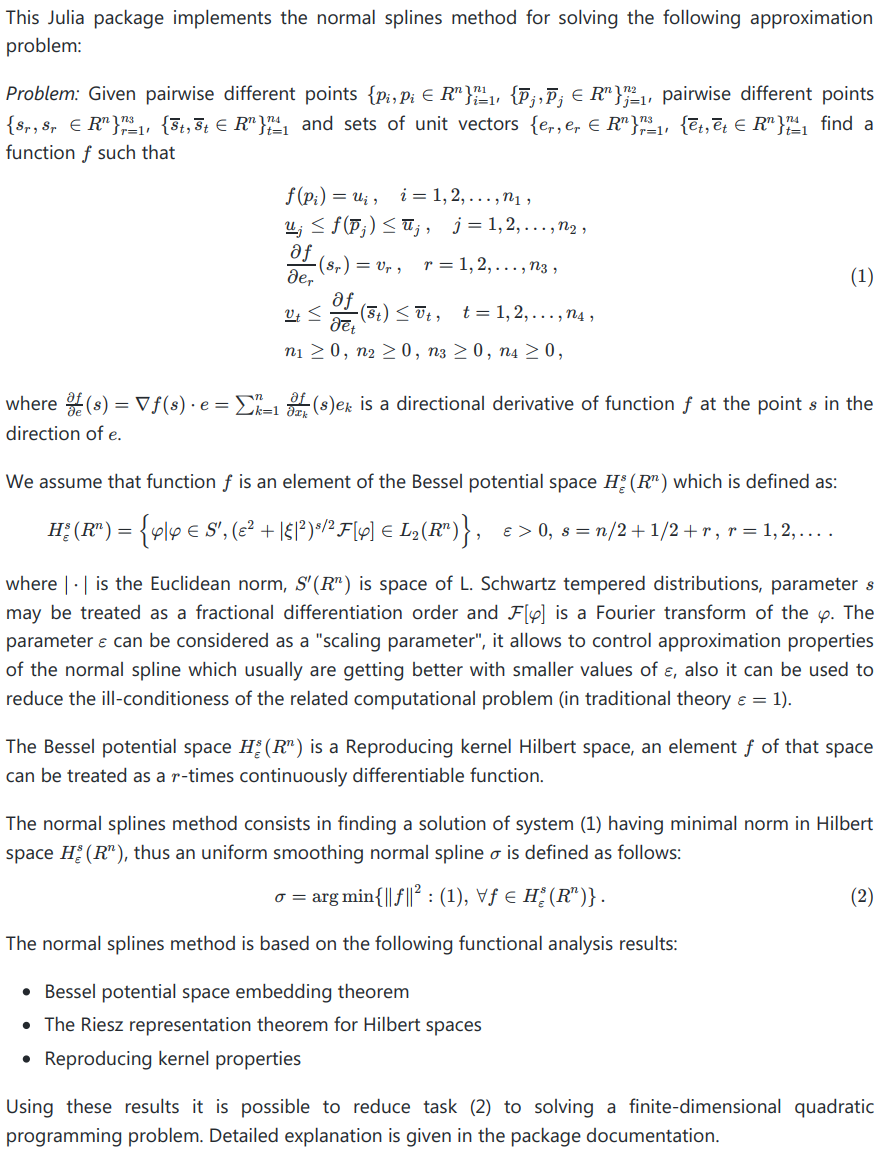
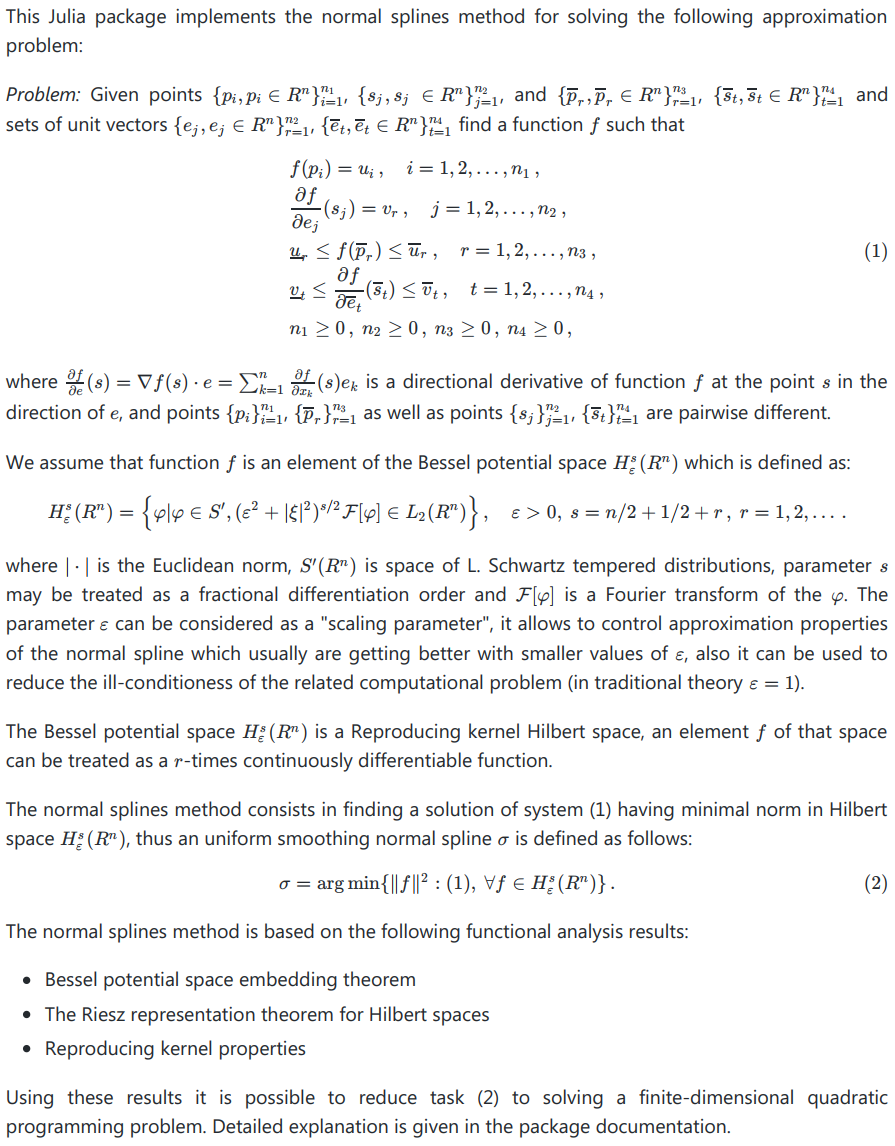
.

Changed region(s): [[0.0, 0.0, 1.0, 1.0], [0.949, 0.7635, 1.0, 0.7941], [0.949, 0.2138, 1.0, 0.2443]]

diff --git a/docs/src/Normal-Splines-Method.md b/docs/src/Normal-Splines-Method.md
@@ -670,22 +670,23 @@ $~$
 
 Consider the following approximation problem:
 
-*Problem:* Given pairwise different points ``\{p_i, p_i \in R^n\}_{i=1}^{n_1}``, ``\{\overline p_j, \overline p_j \in R^n\}_{j=1}^{n_2}``, pairwise different points ``\{s_r, s_r~\in R^n\}_{r=1}^{n_3}``, ``\{\overline s_t, \overline s_t \in R^n\}_{t=1}^{n_4}`` and sets of unit vectors ``\{e_r, e_r \in R^n\}_{r=1}^{n_3}``, ``\{\overline e_t, \overline e_t \in R^n\}_{t=1}^{n_4}`` find a function ``f`` such that
+*Problem:* Given points ``\{p_i, p_i \in R^n\}_{i=1}^{n_1}``, ``\{s_j, s_j \in R^n\}_{j=1}^{n_2}``, and ``\{\overline p_r, \overline p_r \in R^n\}_{r=1}^{n_3}``, ``\{\overline s_t, \overline s_t \in R^n\}_{t=1}^{n_4}`` and sets of unit vectors ``\{e_j, e_j \in R^n\}_{r=1}^{n_2}``, ``\{\overline e_t, \overline e_t \in R^n\}_{t=1}^{n_4}`` find a function ``f`` such that
 
 ```math
 \tag{1}
 \begin{aligned}
 & f(p_i) =  u_i \, , \quad  i = 1, 2, \dots, n_1 \, ,
 \\  
-&  \underline u_j \le f(\overline p_j) \le \overline u_j \, , \quad  j = 1, 2, \dots, n_2 \, ,
+& \frac{ \partial{f} }{ \partial{e_j} }(s_j) =  v_r \, , \quad  j = 1, 2, \dots, n_2 \, ,
 \\  
-& \frac{ \partial{f} }{ \partial{e_r} }(s_r) =  v_r \, , \quad  r = 1, 2, \dots, n_3 \, ,
+&  \underline u_r \le f(\overline p_r) \le \overline u_r \, , \quad  r = 1, 2, \dots, n_3 \, ,
 \\  
 &  \underline v_t \le \frac{ \partial{f} }{ \partial{\overline e_t} } (\overline s_t) \le \overline v_t \, , \quad  t = 1, 2, \dots, n_4 \, , \\
 & n_1 \ge 0 \, , \  n_2 \ge 0 \, , \ n_3 \ge 0 \, , \  n_4 \ge 0 \, ,
 \end{aligned}
 ``` 
-where ``\frac{ \partial{f} }{ \partial{e} }(s) = \nabla f(s) \cdot e = \sum _{k=1}^{n}  \frac{ \partial{f} }{ \partial{x_k} } (s) e_{k}`` is a directional derivative of function ``f`` at the point ``s`` in the direction of ``e``.
+where ``\frac{ \partial{f} }{ \partial{e} }(s) = \nabla f(s) \cdot e = \sum _{k=1}^{n}  \frac{ \partial{f} }{ \partial{x_k} } (s) e_{k}`` is a directional derivative of function ``f`` at the point ``s`` in the direction of ``e``,
+and  points ``\{p_i\}_{i=1}^{n_1}``, ``\{\overline p_r\}_{r=1}^{n_3}`` as well as points ``\{s_j\}_{j=1}^{n_2}``, ``\{\overline s_t\}_{t=1}^{n_4}`` are pairwise different.
 
 We assume that function ``f`` is an element of the Bessel potential space ``H^s_\varepsilon (R^n)`` which is defined as:
 
@@ -1402,12 +1403,12 @@ Projection ``\vartheta`` of zero element of space ``H`` onto the set ``\Psi (\va
 ```math
   \vartheta  =  \sum _{i \in A(\varphi)} \mu _i h_i \ ,
 ```
-where factors ``\mu_i`` are defined from the system of linear equations with symmetric positive definite matrix
+where coefficients ``\mu_i`` are defined from the system of linear equations with symmetric positive definite matrix
 
 ```math
     \sum _{j \in A(\varphi)} g_{ij} \mu _j = b_i  \ ,    \qquad i \in A(\varphi) \ ,
 ```
-If factors ``\mu_i``, ``i \in I_2 \cap A(\varphi)`` corresponding to the inequality constraints are nonpositive, then we can set ``\mu_i = 0`` for ``i \in P(\varphi)`` and get all conditions (8)—(10) satisfied, thereby ``\vartheta  = \sigma`` is a solution of the problem under consideration. The following algorithm is based on this remark.  Let's describe its iteration.
+If coefficients ``\mu_i``, ``i \in I_2 \cap A(\varphi)`` corresponding to the inequality constraints are nonpositive, then we can set ``\mu_i = 0`` for ``i \in P(\varphi)`` and get all conditions (8)—(10) satisfied, thereby ``\vartheta  = \sigma`` is a solution of the problem under consideration. The following algorithm is based on this remark.  Let's describe its iteration.
 
 Let's ``\sigma^ k`` be a feasible point of the system (4), (5):
 
@@ -1424,29 +1425,28 @@ where there are at most ``S`` non-zero multipliers ``\mu_i^k``.  A projection of
 \tag{10}
   \sum _{j \in A_k} g_{ij} \lambda_j^k = b_i  \, ,  \quad i \in A_k \ .
 ```
-There are two possible cases: the element ``\vartheta^k`` is feasible or it is not feasible. In the first case we check the optimality conditions, namely: if ``\lambda_i^k \le 0, \  \forall i \in I_2`` then  ``\vartheta^k`` is the solution of the problem. If the optimality conditions are not satisfied then we set ``\sigma^{k+1} = \vartheta^k``, find an index ``i \in A_k`` such that ``\lambda_i^k > 0`` and remove it from ``A_k``.
-In the second case ``\sigma^{k+1}`` will be defined as a feasible point of the ray ``\vartheta (t)``
+There are two possible cases: the element ``\vartheta^k`` is feasible or it is not feasible. In the first case we check the optimality conditions, namely: if ``\lambda_i^k \le 0, \  \forall i \in I_2 \cap A_k`` then  ``\vartheta^k`` is solution of the problem. If the optimality conditions are not satisfied then we set ``\sigma^{k+1} = \vartheta^k``, find an index ``i \in A_k`` such that ``\lambda_i^k > 0`` and remove it from ``A_k``.
+In the second case ``\sigma^{k+1}`` will be defined as a feasible point of the ray ``\sigma (t)``
 
 ```math
 \tag{11}
-  \vartheta (t) = \sigma^k + t (\vartheta^k - \sigma^k)  \ ,
+  \sigma (t) = \sigma^k + t (\vartheta^k - \sigma^k)  \ ,
 ```math
 such that it is closest to the ``\vartheta^k``. Denote ``t^k_{min}`` the corresponding value of ``t`` and ``i_k \in P_k`` — related number of the violated constraint. This index ``i_k`` will be added to ``A_k`` forming ``A_{k+1}``.
-Since all ``\sigma^k`` are feasible points, the minimization process proceeds within the feasible region and value of ``\| \sigma^k \|_H`` is not increasing. The minimization process is finite because of linear independence of the constraints, it eliminates the possibility of the algorithm cycling. The feasibility of the ``\vartheta^k`` can be checked as follows. Introduce the values ``{e_i^k}, \,  k \in P_k``:
+Since all ``\sigma^k`` are feasible points, the minimization process proceeds within the feasible region and value of ``\| \sigma^k \|_H`` is not increasing. The minimization process is finite because of linear independence of the constraints, it eliminates the possibility of the algorithm cycling. The feasibility of the ``\vartheta^k`` can be checked as follows. Introduce the values ``{e_i^k}, \,  i \in P_k``:
 
 ```math
+\tag{12}
  e_i^k = \langle h_i , \vartheta^k - \sigma^k \rangle_H =  \sum _{j=1}^N g_{ij}(\lambda_j^k - \mu _j^k) \ ,  \quad i \in P_k \ ,
 ```
-if ``{e_i^k} > 0`` then constraint with number ``i`` can be violated at the transition from ``\sigma^k`` to point ``\vartheta^k``, in a case when ``{e_i^k} < 0`` the constraint with number ``i + M`` can be violated. For all ``i \in P_k`` compute values
+if ``e_i^k \le 0 \, , \ \forall i \in P_k`` then ``\vartheta^k`` is a feasible point. Additionally, in a case when ``\lambda_i^k  \le 0 \, , \ \forall i \in I_2 \cap A_k`` it is solution of the problem.
+
+In a case when exist some ``e_i^k \gt 0`` we calculate values
 
 ```math
-  t_i^k = \begin{cases}
-           \frac {b_i - \langle h_i , \sigma^k \rangle_H}{e_i^k} \ ,
-                          \quad e_i^k > 0  \cr \cr
-           \frac {-b_{i+M} - \langle h_{i+M} , \sigma^k \rangle_H}{e_i^k} \ ,
-                          \quad e_i^k < 0  \cr \cr
-           1 \ , \quad e_i^k = 0 \cr
-               \end{cases} \ ,
+\tag{13}
+  t_i^k = \frac {b_i - \langle h_i , \sigma^k \rangle_H}{e_i^k} \ ,
+          \quad \forall i \in P_k \ : \ e_i^k > 0 \, ,
 ```
 where
 
@@ -1454,24 +1454,33 @@ where
 \langle h_i , \sigma^k \rangle_H =   \sum _{j=1}^N g_{ij} \mu _j^k \ ,
 \qquad 
  \langle h_{i+M} , \sigma^k \rangle_H =
-                 \sum _{j=1}^N g_{i+M,j} \mu _j^k \ , \quad i \in P_k \ ,
+                 \sum _{j=1}^N g_{i+M,j} \mu _j^k \ , \quad i \in P_k \ .
 ```
-here all `` t_i^k \ge 0``. Now the maximum feasible step ``t^k_{min}`` is computed as
+Here all `` t_i^k`` are non-negative values. The maximum feasible step ``t^k_{min}`` is computed as
 
 ```math
-    t^k_{min} = \min_{i \in P_k} \{ t_i^k \} 
+\tag{14}
+    t^k_{min} = \min_{i \in P_k} \{ t_i^k \} \, .
 ```
-and ``\vartheta^k`` is feasible if and only if ``t^k_{min} \ge 1`` (see (11)).
+Notice that projection ``\vartheta^k`` is feasible if and only if ``t^k_{min} \ge 1``.
 
-Thereby the algorithm's iteration consist of seven steps:
 
-1. Initialization. Let ``\sigma^0`` be a feasible point of the system (4), (5) and ``\mu_i^0``  are corresponding multipliers (9).
-2. Compute multipliers ``\lambda_j^k, \ i \in A_k`` as solution of the system (10).
-3. If ``| A_k | = S`` then go to Step 6.
-4. Compute ``t_i^k, \ \forall i \in P_k``. Find ``t^k_{min}`` and the corresponding index ``i_k``. 
-5. If ``t^k_{min} < 1`` (projection ``\vartheta^k`` is not feasible) then set ``\mu_i^{k+1} = \mu_i^k + t^k_{min} (\lambda_i^k - \mu_i^k) , \, i \in A_k`` and ``A_{k+1} = A_k \cup \{ i_k \}``. Return to Step 1.
-6. Projection ``\vartheta^k`` is feasible. If exists index ``i_p, \ i_p \in A_k`` such that ``\lambda_{i_p}^k > 0`` then set ``A_{k+1} = A_k \setminus \{ i_p \} \,`` and ``\mu_i^{k+1} = \lambda_i^k , \,  i \in A_{k+1}``. Return to Step 1.
-7. Set ``\sigma = \vartheta^k``. Stop.
+```math
+\tag{15}
+  \sigma^{k+1} = \sigma^k + t^k_{min} (\vartheta^k - \sigma^k)  \ .
+```math
+
+
+Thereby the algorithm consist of the following steps:
+
+1. Initialization. Let ``\sigma^0`` be a feasible point of the system (4), (5) and ``\mu_i^0``  are corresponding coefficients (9).
+2. Calculate coefficients ``\lambda_j^k, \ i \in A_k`` as solution of the system (10).
+3. If ``| A_k | = S`` then go to Step 7.
+4. For ``\forall i \in P_k`` calculate values ``e_i^k``. If ``e_i^k \le 0 \, , \ \forall i \in P_k`` then go to Step 7. Otherwise go to Step 5.
+5. Calculate values ``t_i^k`` for all ``i`` in ``P_k`` such that ``e_i^k \gt 0``. Find ``t^k_{min}`` and the corresponding index ``i_k``. Go to Step 6.
+6. If ``t^k_{min} < 1`` (projection ``\vartheta^k`` is not feasible) then set ``\mu_i^{k+1} = \mu_i^k + t^k_{min} (\lambda_i^k - \mu_i^k) , \, i \in A_k``, set ``A_{k+1} = A_k \cup \{ i_k \}``, and return to Step 2. Otherwise go to Step 7.
+7. Projection ``\vartheta^k`` is feasible. If exists index ``i_p, \ i_p \in A_k`` such that ``\lambda_{i_p}^k > 0`` then set ``A_{k+1} = A_k \setminus \{ i_p \} \,``, set ``\mu_i^{k+1} = \lambda_i^k , \,  i \in A_{k+1}`` and return to Step 2. Otherwise go to step 8.
+8. Set ``\sigma = \vartheta^k``. Solution is found.
 
 The algorithm starts from an initial feasible point of the system (4), (5). Such point ``\sigma^0`` can be defined as the normal solution of the system
 
@@ -1483,7 +1492,7 @@ and can be presented as
 ```math
   \sigma^0 = \sum _{i = 1}^S \mu_i^0 h_i \ ,
 ```
-where multipliers ``\mu_i^0`` are defined from the system
+where coefficients ``\mu_i^0`` are defined from the system
 
 ```math
   \sum _{j=1} ^S g_{ij} \mu _j^0  = u_i  \ ,    \qquad 1 \le i \le  S \ .

diff --git a/docs/src/index.md b/docs/src/index.md
@@ -8,22 +8,24 @@ Author = "Igor Kohanovsky"
 
 `NormalSmoothingSplines.jl` implements the normal splines method for solving the following approximation problem:
 
-*Problem:* Given pairwise different points ``\{p_i, p_i \in R^n\}_{i=1}^{n_1}``, ``\{\overline p_j, \overline p_j \in R^n\}_{j=1}^{n_2}``, pairwise different points ``\{s_r, s_r~\in R^n\}_{r=1}^{n_3}``, ``\{\overline s_t, \overline s_t \in R^n\}_{t=1}^{n_4}`` and sets of unit vectors ``\{e_r, e_r \in R^n\}_{r=1}^{n_3}``, ``\{\overline e_t, \overline e_t \in R^n\}_{t=1}^{n_4}`` find a function ``f`` such that
+
+*Problem:* Given points ``\{p_i, p_i \in R^n\}_{i=1}^{n_1}``, ``\{s_j, s_j \in R^n\}_{j=1}^{n_2}``, and ``\{\overline p_r, \overline p_r \in R^n\}_{r=1}^{n_3}``, ``\{\overline s_t, \overline s_t \in R^n\}_{t=1}^{n_4}`` and sets of unit vectors ``\{e_j, e_j \in R^n\}_{r=1}^{n_2}``, ``\{\overline e_t, \overline e_t \in R^n\}_{t=1}^{n_4}`` find a function ``f`` such that
 
 ```math
 \tag{1}
 \begin{aligned}
 & f(p_i) =  u_i \, , \quad  i = 1, 2, \dots, n_1 \, ,
 \\  
-&  \underline u_j \le f(\overline p_j) \le \overline u_j \, , \quad  j = 1, 2, \dots, n_2 \, ,
+& \frac{ \partial{f} }{ \partial{e_j} }(s_j) =  v_r \, , \quad  j = 1, 2, \dots, n_2 \, ,
 \\  
-& \frac{ \partial{f} }{ \partial{e_r} }(s_r) =  v_r \, , \quad  r = 1, 2, \dots, n_3 \, ,
+&  \underline u_r \le f(\overline p_r) \le \overline u_r \, , \quad  r = 1, 2, \dots, n_3 \, ,
 \\  
 &  \underline v_t \le \frac{ \partial{f} }{ \partial{\overline e_t} } (\overline s_t) \le \overline v_t \, , \quad  t = 1, 2, \dots, n_4 \, , \\
 & n_1 \ge 0 \, , \  n_2 \ge 0 \, , \ n_3 \ge 0 \, , \  n_4 \ge 0 \, ,
 \end{aligned}
 ``` 
-where ``\frac{ \partial{f} }{ \partial{e} }(s) = \nabla f(s) \cdot e = \sum _{k=1}^{n}  \frac{ \partial{f} }{ \partial{x_k} } (s) e_{k}`` is a directional derivative of function ``f`` at the point ``s`` in the direction of ``e``.
+where ``\frac{ \partial{f} }{ \partial{e} }(s) = \nabla f(s) \cdot e = \sum _{k=1}^{n}  \frac{ \partial{f} }{ \partial{x_k} } (s) e_{k}`` is a directional derivative of function ``f`` at the point ``s`` in the direction of ``e``,
+and  points ``\{p_i\}_{i=1}^{n_1}``, ``\{\overline p_r\}_{r=1}^{n_3}`` as well as points ``\{s_j\}_{j=1}^{n_2}``, ``\{\overline s_t\}_{t=1}^{n_4}`` are pairwise different.
 
 We assume that function ``f`` is an element of the Bessel potential space ``H^s_\varepsilon (R^n)`` which is defined as:
 

diff --git a/images/problem-definition-smoothing.md b/images/problem-definition-smoothing.md
@@ -1,21 +1,22 @@
 This Julia package implements the normal splines method for solving the following approximation problem:
 
-*Problem:* Given pairwise different points ``\{p_i, p_i \in R^n\}_{i=1}^{n_1}``, ``\{\overline p_j, \overline p_j \in R^n\}_{j=1}^{n_2}``, pairwise different points ``\{s_r, s_r~\in R^n\}_{r=1}^{n_3}``, ``\{\overline s_t, \overline s_t \in R^n\}_{t=1}^{n_4}`` and sets of unit vectors ``\{e_r, e_r \in R^n\}_{r=1}^{n_3}``, ``\{\overline e_t, \overline e_t \in R^n\}_{t=1}^{n_4}`` find a function ``f`` such that
+*Problem:* Given points ``\{p_i, p_i \in R^n\}_{i=1}^{n_1}``, ``\{s_j, s_j \in R^n\}_{j=1}^{n_2}``, and ``\{\overline p_r, \overline p_r \in R^n\}_{r=1}^{n_3}``, ``\{\overline s_t, \overline s_t \in R^n\}_{t=1}^{n_4}`` and sets of unit vectors ``\{e_j, e_j \in R^n\}_{r=1}^{n_2}``, ``\{\overline e_t, \overline e_t \in R^n\}_{t=1}^{n_4}`` find a function ``f`` such that
 
 ```math
 \tag{1}
 \begin{aligned}
 & f(p_i) =  u_i \, , \quad  i = 1, 2, \dots, n_1 \, ,
 \\  
-&  \underline u_j \le f(\overline p_j) \le \overline u_j \, , \quad  j = 1, 2, \dots, n_2 \, ,
+& \frac{ \partial{f} }{ \partial{e_j} }(s_j) =  v_r \, , \quad  j = 1, 2, \dots, n_2 \, ,
 \\  
-& \frac{ \partial{f} }{ \partial{e_r} }(s_r) =  v_r \, , \quad  r = 1, 2, \dots, n_3 \, ,
+&  \underline u_r \le f(\overline p_r) \le \overline u_r \, , \quad  r = 1, 2, \dots, n_3 \, ,
 \\  
 &  \underline v_t \le \frac{ \partial{f} }{ \partial{\overline e_t} } (\overline s_t) \le \overline v_t \, , \quad  t = 1, 2, \dots, n_4 \, , \\
 & n_1 \ge 0 \, , \  n_2 \ge 0 \, , \ n_3 \ge 0 \, , \  n_4 \ge 0 \, ,
 \end{aligned}
 ``` 
-where ``\frac{ \partial{f} }{ \partial{e} }(s) = \nabla f(s) \cdot e = \sum _{k=1}^{n}  \frac{ \partial{f} }{ \partial{x_k} } (s) e_{k}`` is a directional derivative of function ``f`` at the point ``s`` in the direction of ``e``.
+where ``\frac{ \partial{f} }{ \partial{e} }(s) = \nabla f(s) \cdot e = \sum _{k=1}^{n}  \frac{ \partial{f} }{ \partial{x_k} } (s) e_{k}`` is a directional derivative of function ``f`` at the point ``s`` in the direction of ``e``,
+and  points ``\{p_i\}_{i=1}^{n_1}``, ``\{\overline p_r\}_{r=1}^{n_3}`` as well as points ``\{s_j\}_{j=1}^{n_2}``, ``\{\overline s_t\}_{t=1}^{n_4}`` are pairwise different.
 
 We assume that function ``f`` is an element of the Bessel potential space ``H^s_\varepsilon (R^n)`` which is defined as:
 
